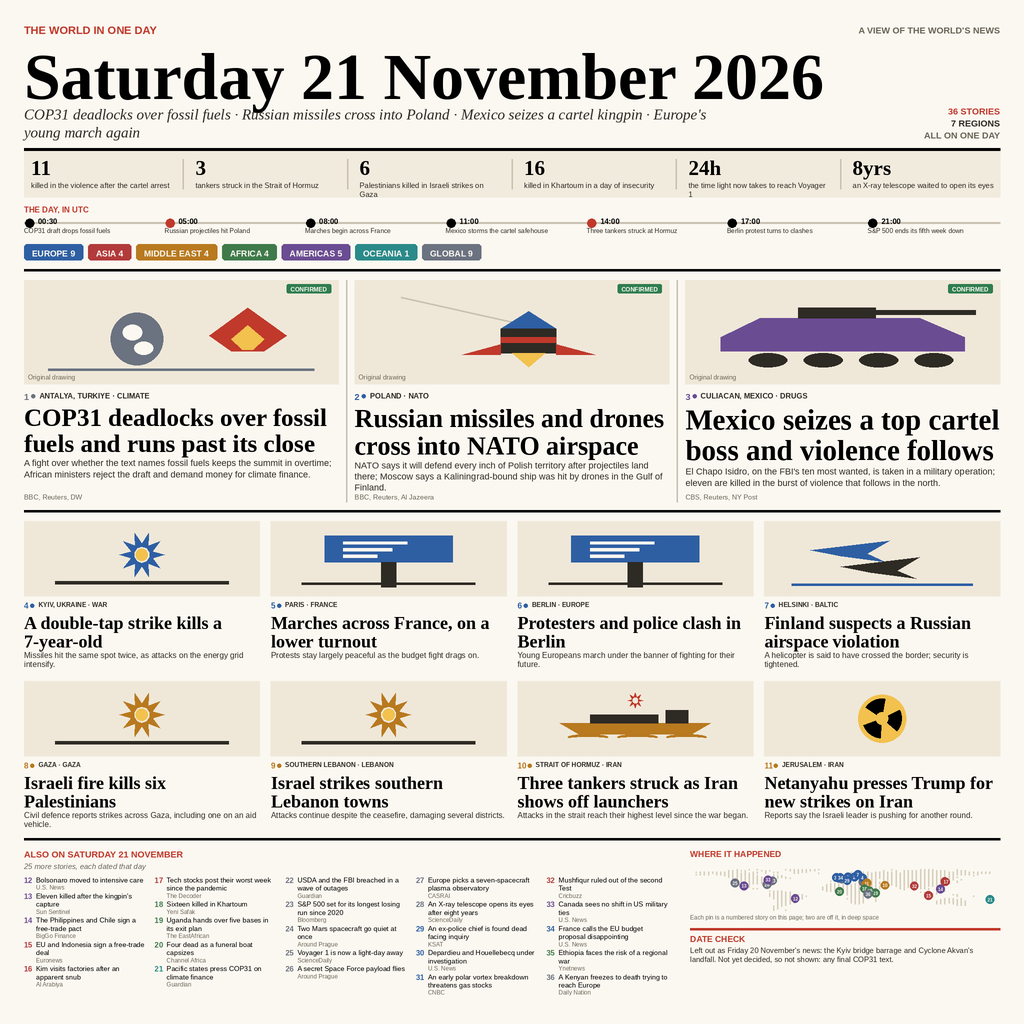
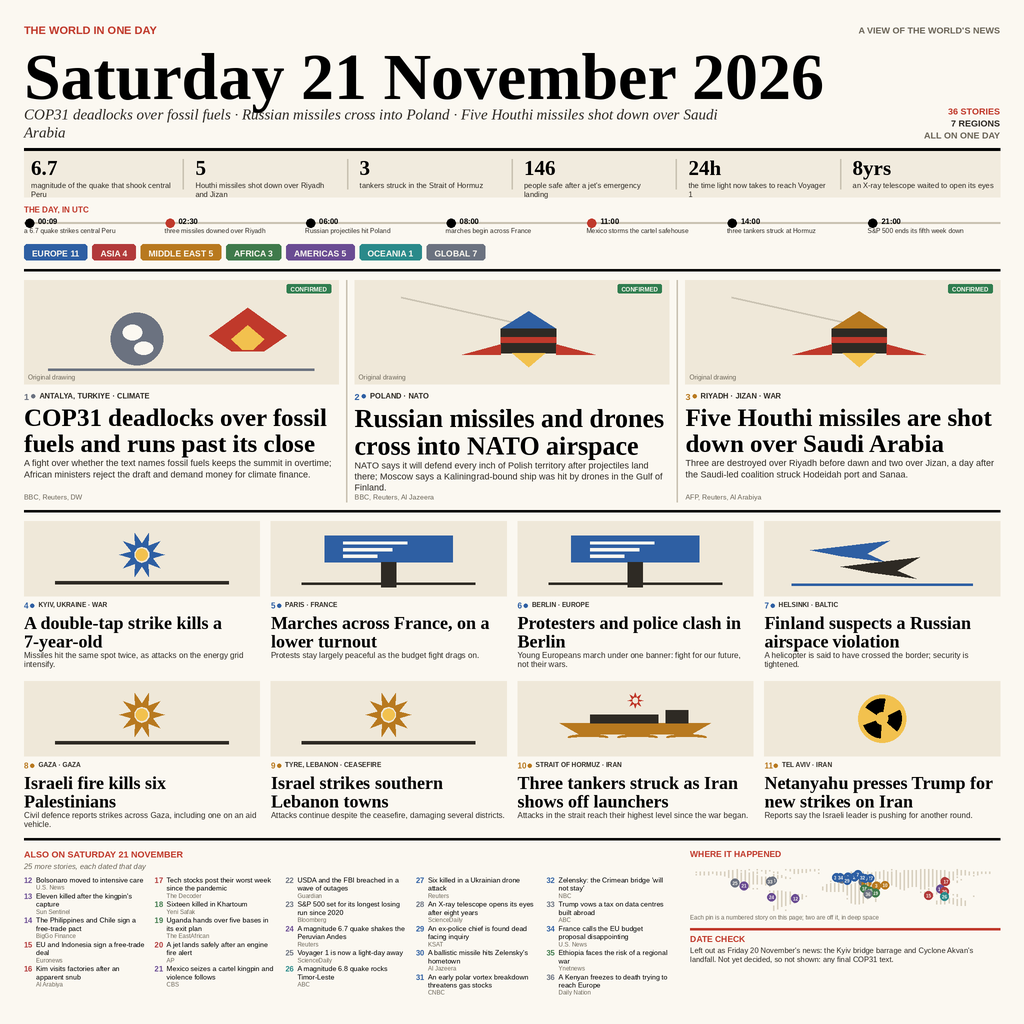
Add Peru and Timor quakes, Saudi missile intercepts, verified story swaps

diff --git a/draw.py b/draw.py
@@ -439,6 +439,18 @@ def icon_ship(p, x, y, w, h, c):
                 (cx + dx * r * 0.40 - dy * r * 0.18, cy + dy * r * 0.40 + dx * r * 0.18),
                 (cx + dx * r * 0.40 + dy * r * 0.18, cy + dy * r * 0.40 - dx * r * 0.18)], RED)
 
+def icon_quake(p, x, y, w, h, c):
+    """A seismograph trace: a steady line, one violent spike, a steady line."""
+    mid = y + h / 2
+    p.line([(x + 2, mid), (x + w * 0.24, mid)], c, 4)
+    p.line([(x + w * 0.24, mid), (x + w * 0.31, mid), (x + w * 0.36, y + h * 0.16),
+            (x + w * 0.42, y + h * 0.86), (x + w * 0.48, y + h * 0.05),
+            (x + w * 0.54, y + h * 0.90), (x + w * 0.60, y + h * 0.32),
+            (x + w * 0.66, y + h * 0.64), (x + w * 0.72, mid),
+            (x + w - 2, mid)], c, 4)
+    for cx in (x + w * 0.24, x + w * 0.72):
+        p.ellipse([cx - 3, mid - 3, cx + 3, mid + 3], fill=INK)
+
 
 # A coarse world, 64 columns of longitude by 30 of latitude: '#' is land.
 # Enough resolution to be read as the world at map size, no more.
@@ -497,7 +509,7 @@ ICON = {
     "blast": icon_blast, "people": icon_people, "derrick": icon_derrick,
     "hospital": icon_hospital, "bat": icon_bat, "server": icon_server,
     "robot": icon_robot, "probe": icon_probe, "planet": icon_planet,
-    "art": icon_art, "ship": icon_ship,
+    "art": icon_art, "ship": icon_ship, "quake": icon_quake,
 }
 
 
@@ -519,11 +531,11 @@ LEADS = [
      "NATO says it will defend every inch of Polish territory after projectiles land "
      "there; Moscow says a Kaliningrad-bound ship was hit by drones in the Gulf of Finland.",
      "BBC, Reuters, Al Jazeera", "missile"),
-    (3, "Americas", "CULIACAN, MEXICO", "DRUGS",
-     "Mexico seizes a top cartel boss and violence follows",
-     "El Chapo Isidro, on the FBI's ten most wanted, is taken in a military operation; "
-     "eleven are killed in the burst of violence that follows in the north.",
-     "CBS, Reuters, NY Post", "militia"),
+    (3, "Middle East", "RIYADH \u00b7 JIZAN", "WAR",
+     "Five Houthi missiles are shot down over Saudi Arabia",
+     "Three are destroyed over Riyadh before dawn and two over Jizan, a day after the "
+     "Saudi-led coalition struck Hodeidah port and Sanaa.",
+     "AFP, Reuters, Al Arabiya", "missile"),
 ]
 
 CARDS = [
@@ -534,7 +546,7 @@ CARDS = [
      "Marches across France, on a lower turnout", "Protests stay largely peaceful as the budget fight drags on.",
      "U.S. News", "strike"),
     (6, "Europe", "BERLIN", "EUROPE",
-     "Protesters and police clash in Berlin", "Young Europeans march under the banner of fighting for their future.",
+     "Protesters and police clash in Berlin", "Young Europeans march under one banner: fight for our future, not their wars.",
      "Yeni Safak, Courthouse", "strike"),
     (7, "Europe", "HELSINKI", "BALTIC",
      "Finland suspects a Russian airspace violation", "A helicopter is said to have crossed the border; security is tightened.",
@@ -542,13 +554,13 @@ CARDS = [
     (8, "Middle East", "GAZA", "GAZA",
      "Israeli fire kills six Palestinians", "Civil defence reports strikes across Gaza, including one on an aid vehicle.",
      "U.S. News, L'Orient Today", "blast"),
-    (9, "Middle East", "SOUTHERN LEBANON", "LEBANON",
+    (9, "Middle East", "TYRE, LEBANON", "CEASEFIRE",
      "Israel strikes southern Lebanon towns", "Attacks continue despite the ceasefire, damaging several districts.",
      "Yeni Safak, TRT", "blast"),
     (10, "Middle East", "STRAIT OF HORMUZ", "IRAN",
      "Three tankers struck as Iran shows off launchers", "Attacks in the strait reach their highest level since the war began.",
      "The Independent, ABC", "ship"),
-    (11, "Middle East", "JERUSALEM", "IRAN",
+    (11, "Middle East", "TEL AVIV", "IRAN",
      "Netanyahu presses Trump for new strikes on Iran", "Reports say the Israeli leader is pushing for another round.",
      "Hurriyet", "nuclear"),
     (12, "Americas", "BRASILIA", "BRAZIL",
@@ -575,48 +587,48 @@ CARDS = [
     (19, "Africa", "MOGADISHU", "SOMALIA",
      "Uganda hands over five bases in its exit plan", "The drawdown of the African Union mission begins in earnest.",
      "The EastAfrican", "defence"),
-    (20, "Africa", "LAGOS", "NIGERIA",
-     "Four dead as a funeral boat capsizes", "A boat carrying mourners overturns, killing four.",
-     "Channel Africa", "ship"),
-    (21, "Oceania", "SUVA", "PACIFIC",
-     "Pacific states press COP31 on climate finance", "Island nations demand money as the summit stalls in Antalya.",
-     "Guardian", "climate"),
+    (20, "Asia", "DAVAO", "AVIATION",
+     "A jet lands safely after an engine fire alert", "All 146 aboard Air Niugini's 767 are safe after it diverts to Davao.",
+     "AP, Reuters", "probe"),
+    (21, "Americas", "CULIACAN, MEXICO", "DRUGS",
+     "Mexico seizes a cartel kingpin and violence follows", "El Chapo Isidro, on the FBI's ten most wanted, is taken; eleven die in the aftermath.",
+     "CBS, Reuters", "militia"),
     (22, "Global", "WASHINGTON", "CYBER",
      "USDA and the FBI breached in a wave of outages", "Hackers hit federal systems amid a spate of technology failures.",
      "Guardian, NBC", "server"),
     (23, "Global", "NEW YORK", "MARKETS",
      "S&P 500 set for its longest losing run since 2020", "Technology's worst week since the pandemic drags the index down.",
      "Bloomberg", "chart"),
-    (24, "Global", "PASADENA", "SPACE",
-     "Two Mars spacecraft go quiet at once", "NASA chases radio and wheel glitches on two missions together.",
-     "Around Prague, Space.com", "planet"),
+    (24, "Americas", "LIMA, PERU", "DISASTER",
+     "A magnitude 6.7 quake shakes the Peruvian Andes", "The tremor strikes the central highlands, with shaking felt across the region.",
+     "Reuters, USGS", "quake"),
     (25, "Global", "PASADENA", "SPACE",
      "Voyager 1 is now a light-day away", "Light takes 24 hours to reach the probe, and it has stopped sending science.",
      "ScienceDaily, Live Science", "probe"),
-    (26, "Global", "CAPE CANAVERAL", "SPACE",
-     "A secret Space Force payload flies", "A Falcon 9 booster flies for an eleventh time, carrying a classified satellite.",
-     "Around Prague", "probe"),
-    (27, "Global", "PARIS", "SPACE",
-     "Europe picks a seven-spacecraft plasma observatory", "ESA selects the mission as its next medium-class science launch.",
-     "CASRAI", "probe"),
+    (26, "Oceania", "DILI, TIMOR-LESTE", "DISASTER",
+     "A magnitude 6.8 quake rocks Timor-Leste", "Shaking is reported as far away as northern Australia along the Pacific Ring of Fire.",
+     "ABC, USGS", "quake"),
+    (27, "Europe", "LUHANSK", "WAR",
+     "Six killed in a Ukrainian drone attack", "Russia reports the deaths in the occupied Luhansk region.",
+     "Reuters, Al Jazeera", "blast"),
     (28, "Global", "GENEVA", "DISASTER",
      "An X-ray telescope opens its eyes after eight years", "The instrument finally begins observing the sky.",
      "ScienceDaily", "art"),
     (29, "Europe", "ROME", "ITALY",
      "An ex-police chief is found dead facing inquiry", "He was under investigation over a 1992 bombing; Meloni expresses shock.",
      "KSAT", "gavel"),
-    (30, "Europe", "PARIS", "CULTURE",
-     "Depardieu and Houellebecq under investigation", "The actor and the author face sexual assault inquiries.",
-     "U.S. News", "gavel"),
+    (30, "Europe", "KRYVYI RIH", "WAR",
+     "A ballistic missile hits Zelensky's hometown", "Two are killed and scores wounded in the strike on Kryvyi Rih.",
+     "Al Jazeera, Guardian", "missile"),
     (31, "Europe", "LONDON", "ENERGY",
      "An early polar vortex breakdown threatens gas stocks", "Europe's reserves are already low before winter bites.",
      "CNBC", "climate"),
-    (32, "Asia", "DHAKA", "CRICKET",
-     "Mushfiqur ruled out of the second Test", "A groin injury removes him from the series against South Africa.",
-     "Cricbuzz, Sky Sports", "bat"),
-    (33, "Americas", "TORONTO", "CANADA",
-     "Canada sees no shift in US military ties", "The defence minister plays down the Pentagon's new restrictions.",
-     "U.S. News, WSLS", "defence"),
+    (32, "Europe", "KYIV", "WAR",
+     "Zelensky: the Crimean bridge 'will not stay'", "He warns Russia is stepping up double-tap strikes on Ukrainian cities.",
+     "NBC, Kyiv Independent", "bridge"),
+    (33, "Global", "WASHINGTON", "TECH",
+     "Trump vows a tax on data centres built abroad", "He calls the penalty 'tremendous' but gives no rate or timetable.",
+     "ABC, Reuters", "server"),
     (34, "Europe", "BRUSSELS", "BUDGET",
      "France calls the EU budget proposal disappointing", "The French presidency pushes back on the latest draft.",
      "U.S. News", "currency"),
@@ -650,20 +662,20 @@ def region_counts():
 
 # ----------------------------------------------------------------- layout ---
 TIMELINE = [
-    ("00:30", "COP31 draft drops fossil fuels"),
-    ("05:00", "Russian projectiles hit Poland"),
-    ("08:00", "Marches begin across France"),
+    ("00:09", "a 6.7 quake strikes central Peru"),
+    ("02:30", "three missiles downed over Riyadh"),
+    ("06:00", "Russian projectiles hit Poland"),
+    ("08:00", "marches begin across France"),
     ("11:00", "Mexico storms the cartel safehouse"),
-    ("14:00", "Three tankers struck at Hormuz"),
-    ("17:00", "Berlin protest turns to clashes"),
+    ("14:00", "three tankers struck at Hormuz"),
     ("21:00", "S&P 500 ends its fifth week down"),
 ]
 
 STATS = [
-    ("11", "killed in the violence after the cartel arrest"),
+    ("6.7", "magnitude of the quake that shook central Peru"),
+    ("5", "Houthi missiles shot down over Riyadh and Jizan"),
     ("3", "tankers struck in the Strait of Hormuz"),
-    ("6", "Palestinians killed in Israeli strikes on Gaza"),
-    ("16", "killed in Khartoum in a day of insecurity"),
+    ("146", "people safe after a jet's emergency landing"),
     ("24h", "the time light now takes to reach Voyager 1"),
     ("8yrs", "an X-ray telescope waited to open its eyes"),
 ]
@@ -685,7 +697,7 @@ def masthead(p, y):
 
     # the deck: four teasers, comma-separated by interpuncts
     deck = ("COP31 deadlocks over fossil fuels  \u00b7  Russian missiles cross into Poland  \u00b7  "
-            "Mexico seizes a cartel kingpin  \u00b7  Europe's young march again")
+            "Five Houthi missiles shot down over Saudi Arabia")
     f = p.font(SERIF_I, 15)
     for line in p.wrap(deck, f, W - 2 * M - 260):
         p.text(M, y, line, f, INK2)
@@ -864,17 +876,17 @@ TRUST_COLOR = {2: "#2F7D4F", 1: "#B8791F", 0: "#8A8A8A"}
 
 # Where each story happened, for the map pins: latitude, longitude.
 PLACE = {
-    1: (36.9, 30.7), 2: (52.2, 21.0), 3: (24.8, -107.4), 4: (50.4, 30.5),
+    1: (36.9, 30.7), 2: (52.2, 21.0), 3: (24.7, 46.7), 4: (50.4, 30.5),
     5: (48.9, 2.4), 6: (52.5, 13.4), 7: (60.2, 24.9), 8: (31.5, 34.5),
     9: (33.3, 35.4), 10: (26.6, 56.3), 11: (31.8, 35.2), 12: (-15.8, -47.9),
     13: (24.8, -107.4), 14: (14.6, 121.0), 15: (-6.2, 106.8), 16: (39.0, 125.8),
-    17: (37.6, 127.0), 18: (15.5, 32.5), 19: (2.0, 45.3), 20: (6.5, 3.4),
-    21: (-18.1, 178.4), 22: (38.9, -77.0), 23: (40.7, -74.0), 24: (34.1, -118.1),
-    25: (34.1, -118.1), 26: (28.4, -80.6), 27: (48.9, 2.4), 28: (46.2, 6.1),
-    29: (41.9, 12.5), 30: (48.9, 2.4), 31: (51.5, -0.1), 32: (23.8, 90.4),
-    33: (43.7, -79.4), 34: (50.8, 4.4), 35: (9.0, 38.7), 36: (-1.3, 36.8),
+    17: (37.6, 127.0), 18: (15.5, 32.5), 19: (2.0, 45.3), 20: (7.1, 125.6),
+    21: (24.8, -107.4), 22: (38.9, -77.0), 23: (40.7, -74.0), 24: (-11.2, -75.5),
+    25: (34.1, -118.1), 26: (-8.6, 125.6), 27: (48.6, 39.3), 28: (46.2, 6.1),
+    29: (41.9, 12.5), 30: (47.9, 33.4), 31: (51.5, -0.1), 32: (50.4, 30.5),
+    33: (38.9, -77.0), 34: (50.8, 4.4), 35: (9.0, 38.7), 36: (-1.3, 36.8),
 }
-# All 21 November stories have a terrestrial dateline, so none sit off the map.
+# Every story has a terrestrial dateline; the X-ray telescope observes from orbit.
 OFFMAP = set()
 
 

diff --git a/README.md b/README.md
@@ -24,22 +24,25 @@ The three leads:
 2. **Russian missiles and drones cross into NATO airspace.** NATO says it will
    defend every inch of Polish territory after projectiles land there, and Moscow
    says a Kaliningrad-bound ship was hit by drones in the Gulf of Finland.
-3. **Mexico seizes a top cartel boss and violence follows.** El Chapo Isidro, on
-   the FBI's ten most wanted, is taken in a military operation; eleven are killed
-   in the burst of violence that follows in the north.
+3. **Five Houthi missiles are shot down over Saudi Arabia.** Three are destroyed
+   over Riyadh before dawn and two over Jizan, a day after the Saudi-led coalition
+   struck Hodeidah port and Sanaa.
 
 The rest of the day, across regions: a double-tap missile strike in Kyiv that
 killed a seven-year-old, marches across France on a lower turnout, clashes in
 Berlin, a suspected Russian airspace violation over Finland, Israeli fire that
-killed six Palestinians in Gaza, strikes on southern Lebanon despite the
-ceasefire, three tankers struck in the Strait of Hormuz, Netanyahu pressing
-Trump for new strikes on Iran, Bolsonaro moved to intensive care, an EU-Indonesia
-free-trade deal, the Philippines and Chile signing their first pact, Kim touring
-factories after an apparent snub, tech stocks' worst week since the pandemic,
-sixteen killed in Khartoum, Uganda handing over five bases in Somalia, a funeral
-boat capsizing in Nigeria, Pacific states pressing COP31 on finance, the FBI and
-USDA breached, two Mars spacecraft going quiet at once, Voyager 1 now a light-day
-away, a classified Space Force launch, ESA's new plasma observatory, and more.
+killed six Palestinians in Gaza, strikes on Tyre and southern Lebanon despite the
+ceasefire, three tankers struck in the Strait of Hormuz, Netanyahu pressing Trump
+for new strikes on Iran, Zelensky saying the Crimean bridge "will not stay",
+Bolsonaro moved to intensive care, Mexico seizing the cartel kingpin El Chapo
+Isidro and eleven dying in the aftermath, a magnitude 6.7 earthquake in the
+Peruvian Andes, a magnitude 6.8 quake off Timor-Leste felt in Australia, an
+Air Niugini jet landing safely at Davao with all 146 aboard after an engine fire
+alert, Trump vowing a tax on data centres built abroad, an EU-Indonesia
+free-trade deal, the Philippines and Chile signing their first pact, tech stocks'
+worst week since the pandemic, sixteen killed in Khartoum, Uganda handing over
+five bases in Somalia, the FBI and USDA breached, Voyager 1 now a light-day away,
+and more.
 
 Under the masthead, two strips give the day a spine: **the day in UTC**, a
 seven-stop chronology from the COP31 draft at 00:30 to the S&P 500 closing its
@@ -60,7 +63,7 @@ type stays clean at the size the judge reads it. Redrawing it is deterministic,
 byte for byte.
 
 `verify.py` checks the page geometrically, since a page that overflows a column
-is a page that reads as broken: every one of the 255 text lines against the
+is a page that reads as broken: every one of the 258 text lines against the
 margins and the band it belongs to, and every block against its own cell.
 
 ## Sources
